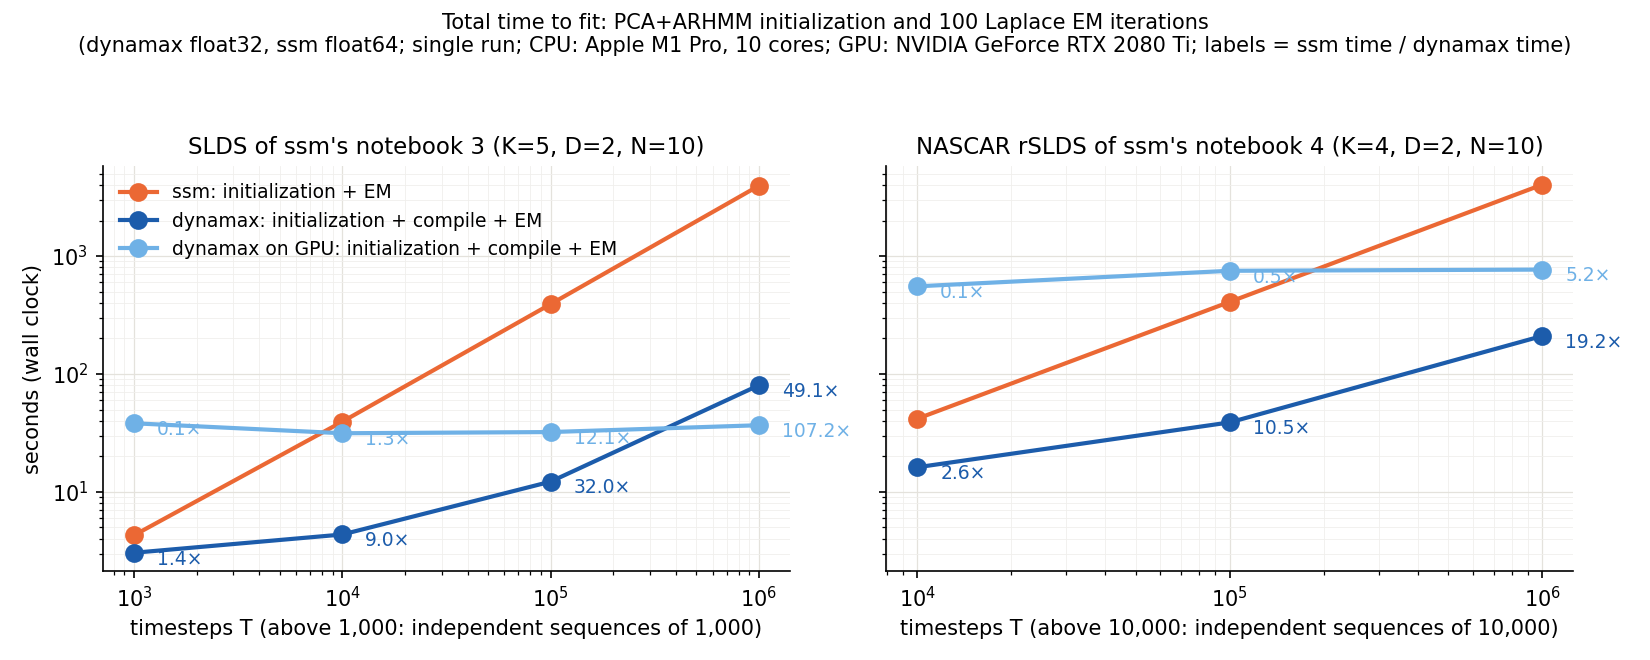
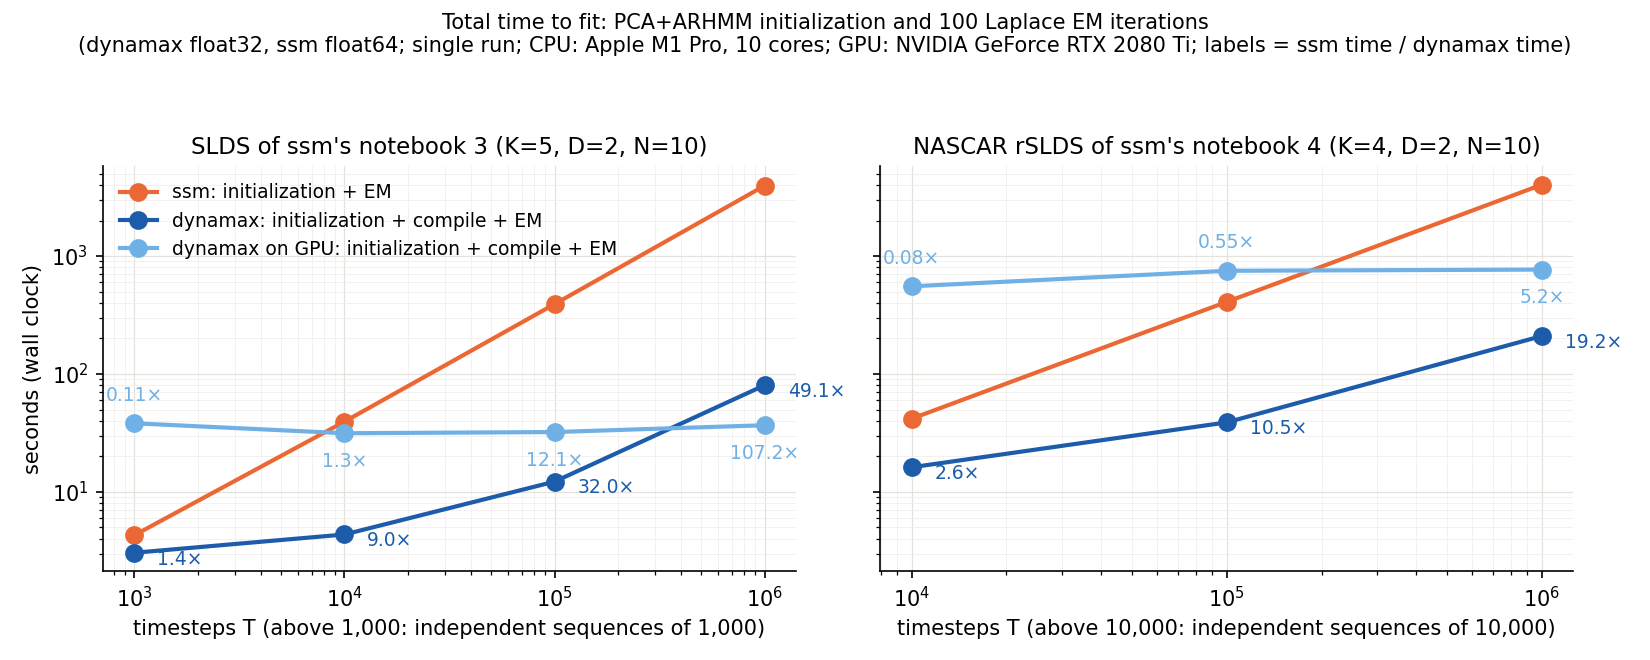
Fix the speed-up labels below 1 in the total-time plot
Problem: the labels on the total-time plot are ssm's time over
dynamax's, printed with one decimal. Where dynamax is slower the ratio
is below 1, and one decimal is too coarse: 0.11 and 0.075 both read
0.1x. The GPU series' labels also sat on its flat line.

Solution: ratios below 1 are printed with two decimals. The GPU
series' labels go above or below their points, on the side away from
ssm's point.

diff --git a/benchmarks/slds_vs_ssm/plot.py b/benchmarks/slds_vs_ssm/plot.py
@@ -85,8 +85,13 @@ for ax, total_ax, (dataset, title) in zip(axes, total_axes, DATASETS.items()):
     for series in SERIES:
         if series != "ssm":                                 # ssm's time over this series' time, in its color
             for t, ssm_s, series_s in zip(T, totals["ssm"], totals[series]):
-                total_ax.annotate(f"{ssm_s / series_s:.1f}×", (t, series_s), xytext=(11, -3), fontsize=9,
-                                  textcoords="offset points", ha="left", va="center",
+                ratio = ssm_s / series_s                    # below 1 (dynamax slower), one decimal is too coarse
+                # beside a CPU point; above or below a GPU point (its line is flat), on the side away from ssm's
+                place = dict(xytext=(11, -3), ha="left", va="center") if "GPU" not in series else \
+                    dict(xytext=(0, -9), ha="center", va="top") if ratio >= 1 else \
+                    dict(xytext=(0, 9), ha="center", va="bottom")
+                total_ax.annotate(f"{ratio:.1f}×" if ratio >= 1 else f"{ratio:.2f}×", (t, series_s), fontsize=9,
+                                  textcoords="offset points", **place,
                                   color="#52514e" if len(SERIES) == 2 else SERIES[series])
     for a in (ax, total_ax):
         a.set_xscale("log")
